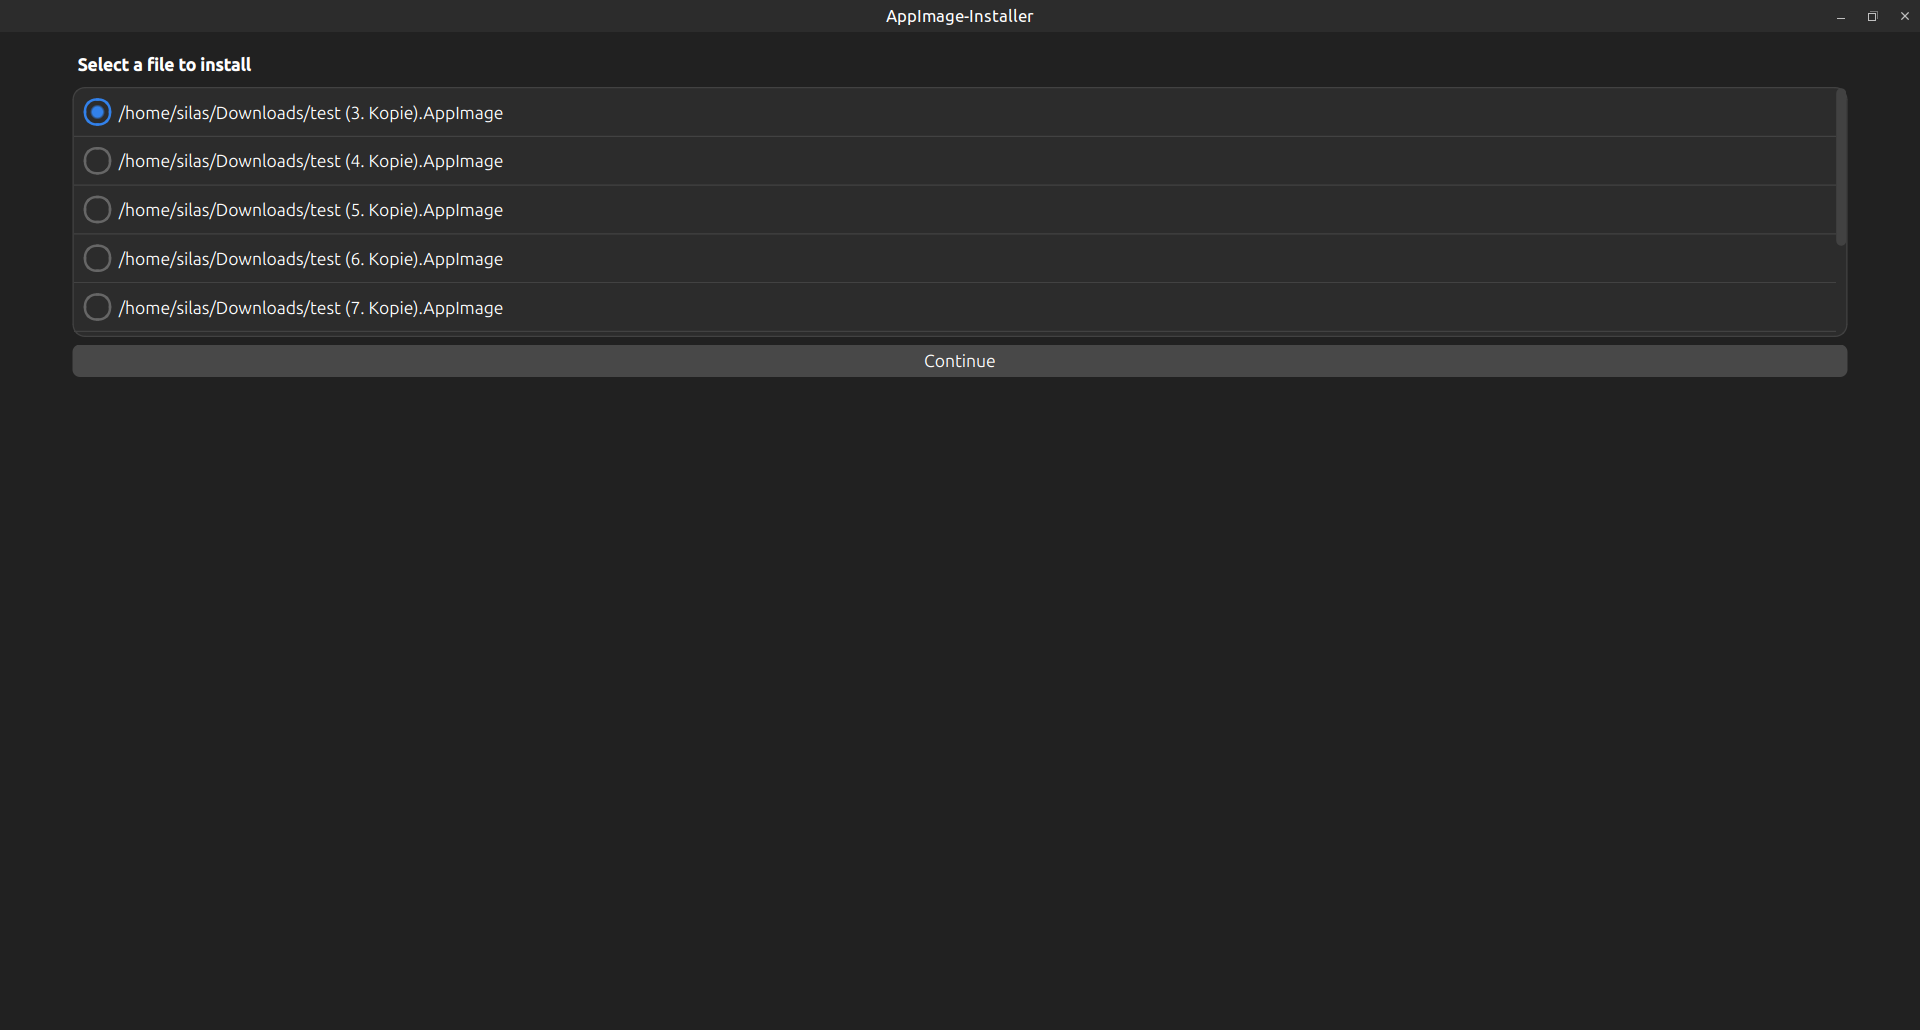
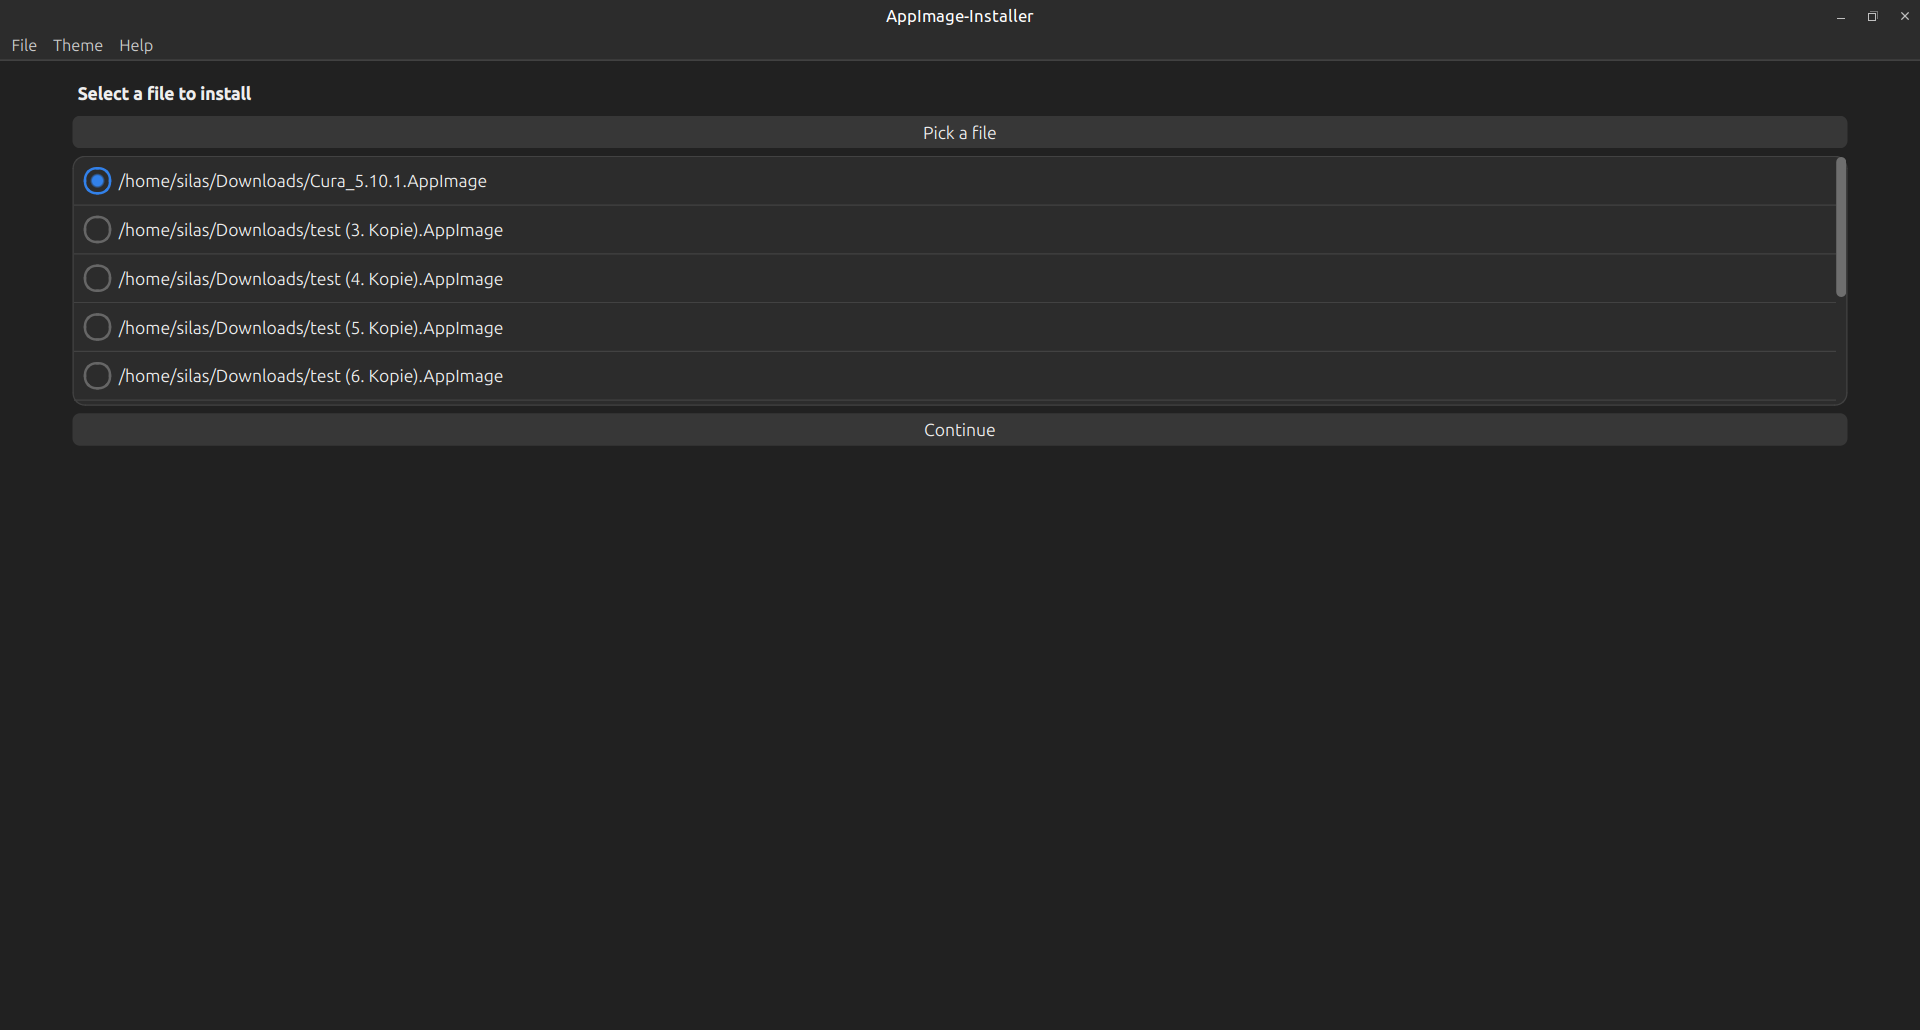
Added the option to pick any AppImage file for the user and finished the help menu Also fixed a bug where the terminal wouldn't show for 2s after the installation finished Updated README

diff --git a/Pyside.py b/Pyside.py
@@ -1,9 +1,9 @@
 import faulthandler
 faulthandler.enable()
 
-from PySide6.QtWidgets import QApplication, QMainWindow, QLabel, QVBoxLayout, QWidget, QGroupBox, QRadioButton, QPushButton, QStackedWidget, QLineEdit, QButtonGroup, QMessageBox, QScrollArea
-from PySide6.QtCore import Qt, QThread, Signal, QTimer
-from PySide6.QtGui import QGuiApplication
+from PySide6.QtWidgets import QApplication, QMainWindow, QLabel, QVBoxLayout, QWidget, QGroupBox, QRadioButton, QPushButton, QStackedWidget, QLineEdit, QButtonGroup, QMessageBox, QScrollArea, QFileDialog
+from PySide6.QtCore import Qt, QThread, Signal, QTimer, QUrl
+from PySide6.QtGui import QGuiApplication, QDesktopServices
 
 import sys
 import os
@@ -50,10 +50,18 @@ class MainWindow(QMainWindow):
 
         optionsBar = self.menuBar()
 
+        fileMenu = optionsBar.addMenu("File")
         themeMenu = optionsBar.addMenu("Theme")
         helpMenu = optionsBar.addMenu("Help")
 
-# Hides the box around the box with the menues
+# Hides the box around the box with the menues; Has to be declared for every menu
+        fileMenu.setWindowFlags(fileMenu.windowFlags() | Qt.FramelessWindowHint | Qt.NoDropShadowWindowHint | Qt.Popup)
+        fileMenu.setAttribute(Qt.WA_TranslucentBackground)
+
+        file1 = fileMenu.addAction("Pick a different file")
+
+        file1.triggered.connect(self.userPick)
+
         themeMenu.setWindowFlags(themeMenu.windowFlags() | Qt.FramelessWindowHint | Qt.NoDropShadowWindowHint | Qt.Popup)
         themeMenu.setAttribute(Qt.WA_TranslucentBackground)
 
@@ -67,11 +75,15 @@ class MainWindow(QMainWindow):
         theme2.triggered.connect(lambda: self.loadTheme("darkTheme"))
         theme3.triggered.connect(lambda: self.loadTheme("lightTheme"))
 
-# Future feature to be implemented at some point in time
-        helpMenu.addAction("Coming soon...")
-
         helpMenu.setWindowFlags(helpMenu.windowFlags() | Qt.FramelessWindowHint | Qt.NoDropShadowWindowHint | Qt.Popup)
         helpMenu.setAttribute(Qt.WA_TranslucentBackground)
+
+        help1 = helpMenu.addAction("Github Repo")
+
+        help1.triggered.connect(self.openRepo)
+
+    def openRepo(self):
+        QDesktopServices.openUrl(QUrl("https://github.com/Anton-Lindauer/AppImage-Installer"))
 
     def createPage1(self):
         mainWidget = QWidget()
@@ -80,6 +92,9 @@ class MainWindow(QMainWindow):
         title = QLabel("Select a file to install")   # Title telling the user what to do
         title.setObjectName("title")
         title.setAlignment(Qt.AlignLeft)
+
+        filedialogBtn = QPushButton("Pick a file")
+        filedialogBtn.clicked.connect(self.userPick)
 
         # QScrollArea with a container for all the QRadioButtons with adjustable size to fit up to five QRadioButtons and then enable scrolling
         containerScrollArea = QScrollArea()
@@ -142,12 +157,27 @@ class MainWindow(QMainWindow):
 
 # Adding every main element to the main window
         mainLayout.addWidget(title)
+        mainLayout.addWidget(filedialogBtn)
         mainLayout.addWidget(containerScrollArea)
         mainLayout.addWidget(submitBtn)
 
         mainLayout.addStretch()    # Increases the window size without increasing the elemet sizes
 
         return mainWidget
+    
+    def userPick(self):
+        pickedPath, _ = QFileDialog.getOpenFileName(
+            self,
+            "Pick a AppImage file to install",
+            f"{self.userDir}",
+            "AppImage files (*.AppImage);;All files (*)"
+        )
+
+        if pickedPath:
+            print(f"{pickedPath}")
+
+            self.selectedFilePath = pickedPath
+            self.stackedWidget.setCurrentIndex(1)
     
     def findSeletedRadioBtn(self):  # Function to find out which file was selected by the user and the user can only continue with a file selected
             selected = self.groupPage1.checkedButton()
@@ -294,9 +324,6 @@ class MainWindow(QMainWindow):
 # Start the installation function
         self.worker.start()
 
-# Wait 2s to let the user see the last step beeing completed
-        QTimer.singleShot(2000)
-
 # Function for displaying the installers progress
     def workerProgress(self, message):
         currentProgress = self.terminalUpdateMsg.text()
@@ -313,6 +340,9 @@ class MainWindow(QMainWindow):
 # Function to process what happens, when the installation finished successfully
     def workerFinished(self):
         self.terminalUpdateMsg.setText("Installation finished")
+
+# Wait 2s to let the user see the last step beeing completed
+        QTimer.singleShot(2000)
 
         self.stackedWidget.setCurrentIndex(3)   # Go to the installation finished page
 

diff --git a/README.md b/README.md
@@ -71,15 +71,17 @@ Example of installing Ultimaker Cura.
 ![image alt](https://github.com/Anton-Lindauer/AppImage-Installer/blob/1c46881a2dbc691cec0b3f207b48ec1a6a896685/pictures%20for%20README%20file/page3.png)
 This may take a while, especially the creation of a startmenu entry takes a while. 
 
-Example error message pop up window also included in the picture.
+Example error message pop up window also included in the picture. If you encounter a error message, check the terminal you used to launch the program from for more details.
 
 ### Finished installation screen
 ![image alt](https://github.com/Anton-Lindauer/AppImage-Installer/blob/f14feb2ef58f4b6dcdb579f0e8fe16d1b458bedb/pictures%20for%20README%20file/Page3.png)
 
 ## Other important notes
+If you suddenly find a directory called "AppDir" or another new directory in the directory of the installer scripts, you can most likely safely delete them. Sometimes such directories are created by the AppImages durin the app icon extraction process. 
+
 main.py will from now on be used by the GUI, if you want the terminal version of this tool, you have to execute the mainCLI.py file.
 
-A light mode is also supported, the program picks your system themen when launched.
+A light mode is also supported, the program uses your system themen when launched.
 
 The GUI design is inspired by linux mint with orchis dark/light compact themes, it's not a 1:1 replica, because Qt hates doing what it should do and there is no mint menu with a similar layout.
 
